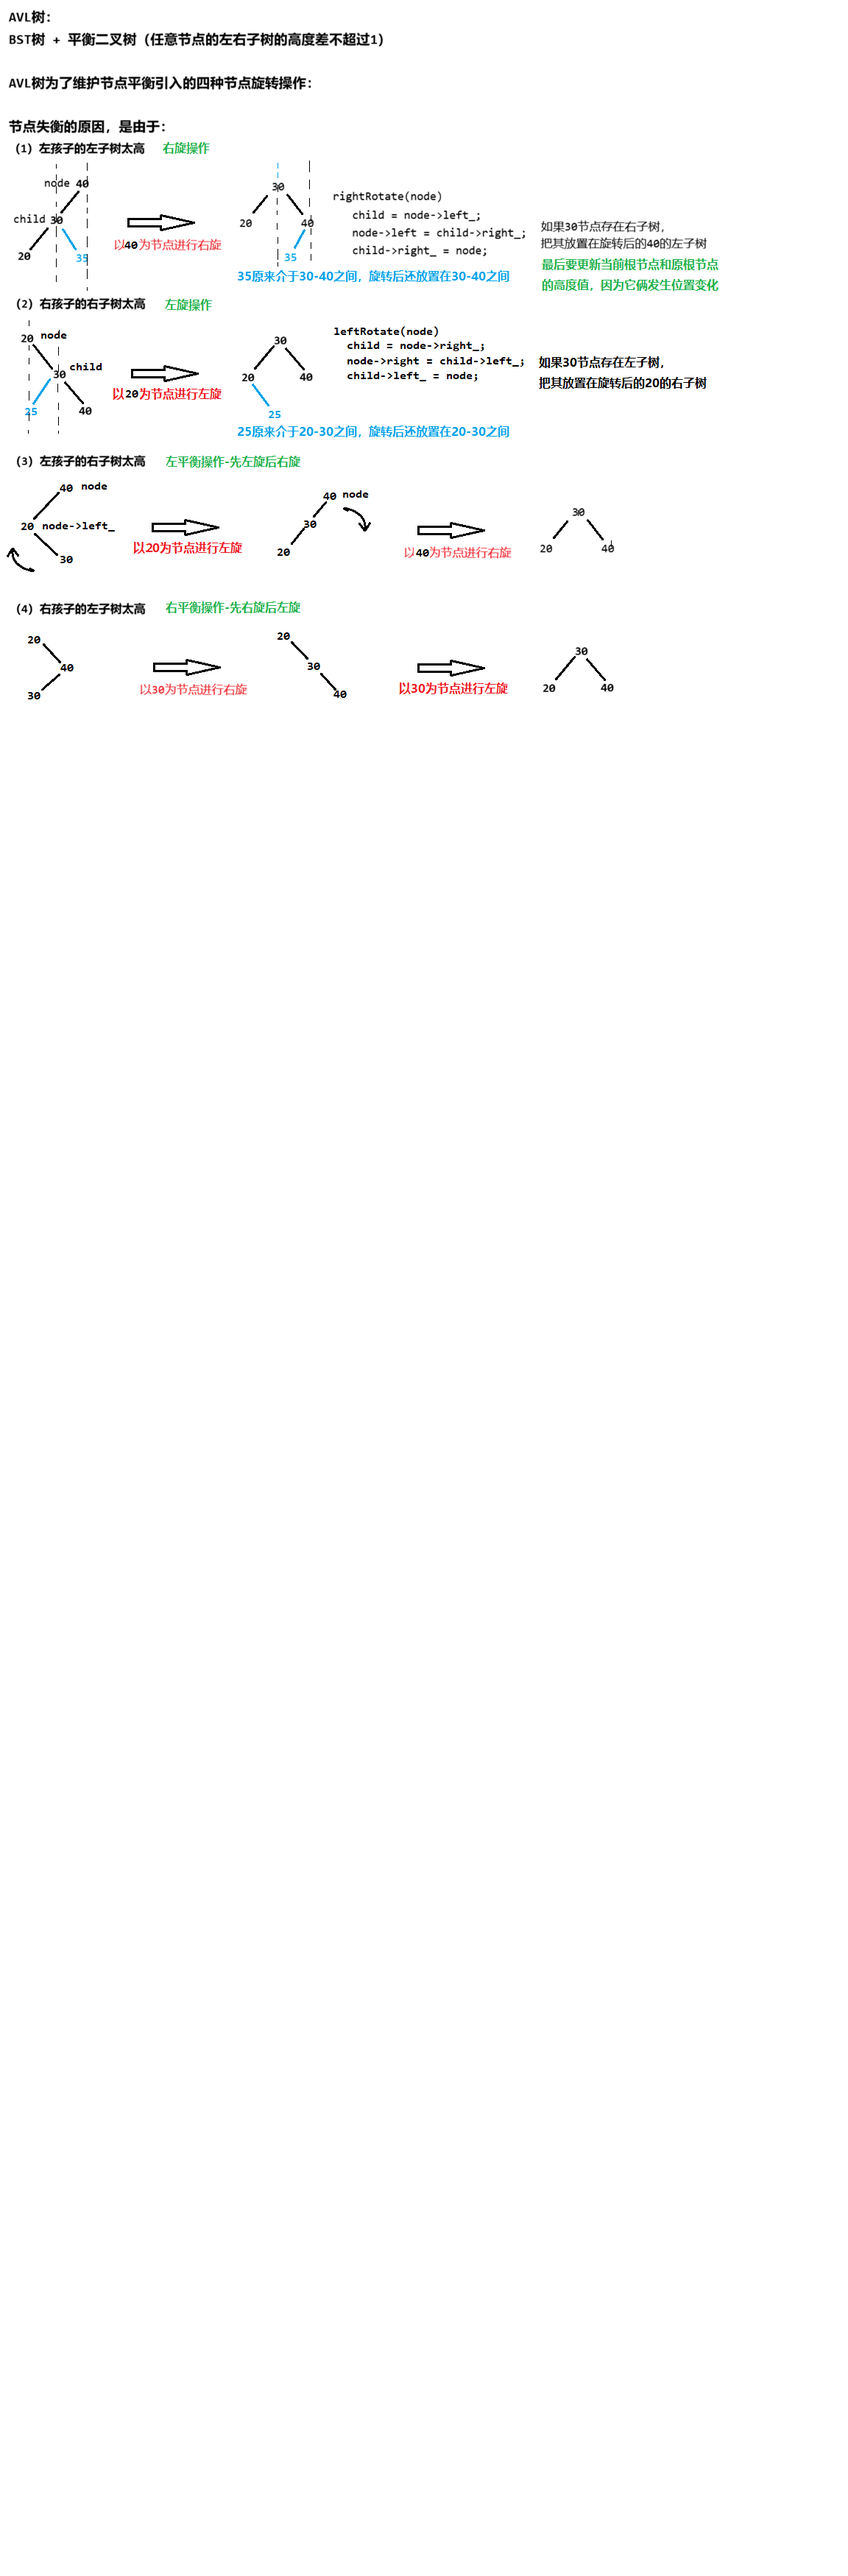
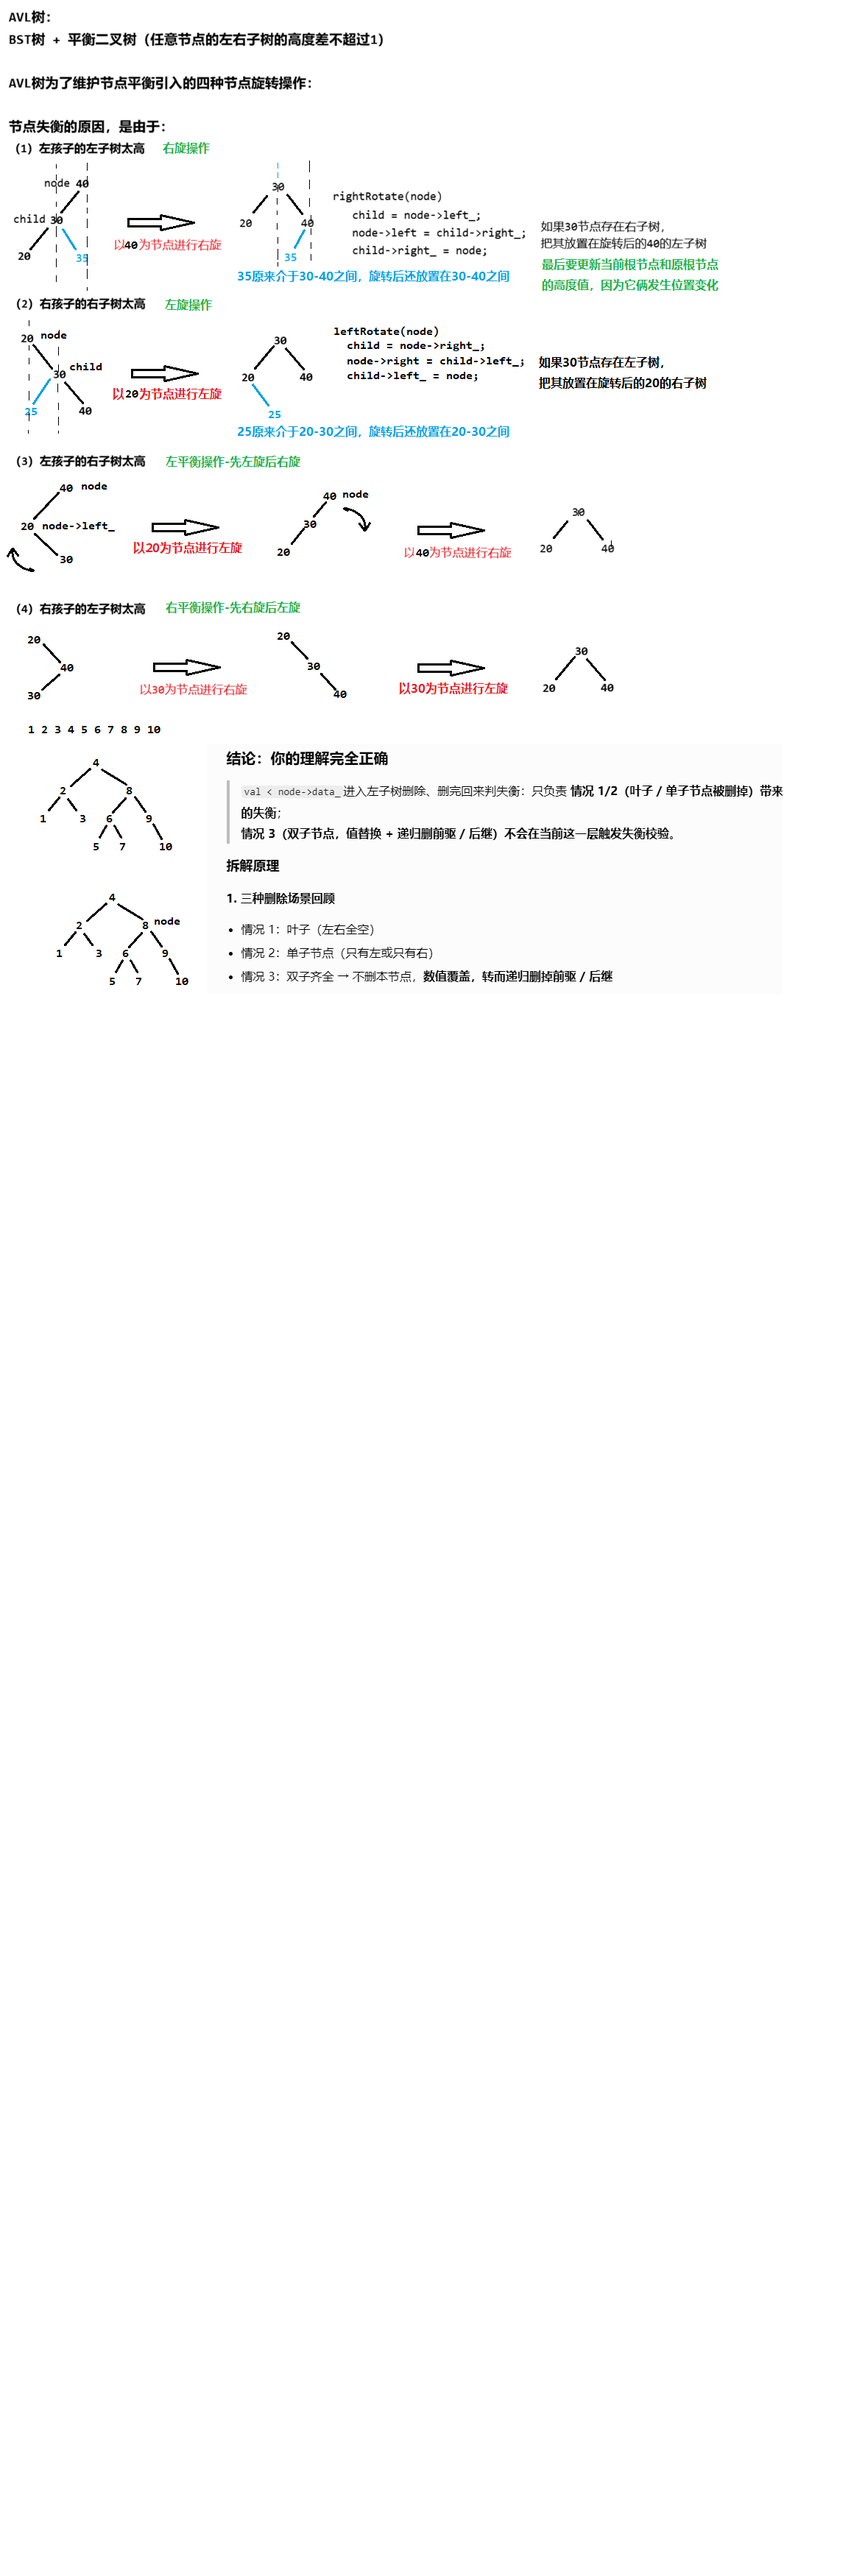
1

diff --git a/28 AVL树/AVL树/AVL树.cpp b/28 AVL树/AVL树/AVL树.cpp
@@ -1,30 +1,32 @@
 #include <iostream>
+#include <algorithm>
 #include <cmath>
 
 using namespace std;
 
 //AVL树
-template<typename T, typename Comp = less<T>>
+template<typename T>
 class AVLTree
 {
 private:
     struct Node
     {
         Node(T data = T()) 
-            : data_(data) , 
-            : left_(nullptr), 
-            : right_(nullptr)
+            : data_(data)
+            , left_(nullptr) 
+            , right_(nullptr)
+            , height_(1)
         {
         }
         T data_;
-        Node left_;
-        Node right_;
+        Node* left_;
+        Node* right_;
         int height_; //当前节点的高度
     };
     //根节点
     Node* root_;
 private:
-    //计算高度函数
+    //计算当前节点高度函数
     int height(Node* node)
     {
         if(node == nullptr)
@@ -40,11 +42,11 @@ private:
     {
         //孩子节点指向node节点的左孩子
         Node* child = node->left_;
-        node->left = child->node;
+        node->left_ = child->right_;
         child->right_ = node;
         //高度更新 ： 左右子树高的那颗树的高度 + 1 (当前节点高度)
         node->height_ = max(height(node->left_), height(node->right_)) + 1;
-        child->height = max(height(child->left_), height(child->right_)) + 1;
+        child->height_ = max(height(child->left_), height(child->right_)) + 1;
         //返回旋转之后的根节点
         return child;
     }
@@ -57,7 +59,7 @@ private:
         child->left_ = node;
         //高度更新 ： 左右子树高的那颗树的高度 + 1 (当前节点高度)
         node->height_ = max(height(node->left_), height(node->right_)) + 1;
-        child->height = max(height(child->left_), height(child->right_)) + 1;
+        child->height_ = max(height(child->left_), height(child->right_)) + 1;
         //返回旋转之后的根节点
         return child;
     }
@@ -91,7 +93,11 @@ public:
     {
         root_ = insert(root_, val);
     }    
-    //删除-递归
+    //删除-递归-用户接口
+    void remove(T val)
+    {
+        root_ = remove(root_, val);
+    }
     //查找-递归
 private:
     //插入-递归
@@ -108,15 +114,18 @@ private:
             node->left_ = insert(node->left_, val);
             /* ------此行之下是[递归回溯]过程执行------*/
             //与BST树比 添加1:node的左子树太高，导致node失衡
-            //判断是 左孩子的左子树太高 还是 左孩子的右子树太高
-            if(height(node->left_->left_) >= height(node->left_->right_))
+            if (height(node->left_) - height(node->right_) > 1)
             {
-                //接收新的根节点
-                node = rightRotate(node);
-            }
-            else
-            {
-                node = leftBalance(node);
+                //判断是 左孩子的左子树太高 还是 左孩子的右子树太高
+                if (height(node->left_->left_) >= height(node->left_->right_))
+                {
+                    //接收新的根节点
+                    node = rightRotate(node);
+                }
+                else
+                {
+                    node = leftBalance(node);
+                }
             }
         }
         //R
@@ -125,15 +134,18 @@ private:
             node->right_ = insert(node->right_, val);
             /* ------此行之下是[递归回溯]过程执行------*/
             //添加2:node的右子树太高，导致node失衡
-            //判断是 右孩子的右子树太高 还是 右孩子的左子树太高
-            if(height(node->right_->right_) >= height(node->right_->left_))
+            if (height(node->right_) - height(node->left_) > 1)
             {
-                //接收新的根节点
-                node = leftRotate(node);
-            }
-            else
-            {
-                node = rightBalance(node);
+                //判断是 右孩子的右子树太高 还是 右孩子的左子树太高
+                if (height(node->right_->right_) >= height(node->right_->left_))
+                {
+                    //接收新的根节点
+                    node = leftRotate(node);
+                }
+                else
+                {
+                    node = rightBalance(node);
+                }
             }
         }
         //相等
@@ -142,8 +154,105 @@ private:
             return node;
         }
         //添加3：更新AVL树高度
-        node->height_ = max(height(node->left, node->right)) + 1;
+        node->height_ = max(height(node->left_), height(node->right_)) + 1;
         //插入完成后，当前子树的根节点root_
+        return node;
+    }
+    //删除-递归
+    Node* remove(Node* node, const T val)
+    {
+        //待删除节点空，直接返回
+        if (node == nullptr)
+        {
+            return nullptr;
+        }
+        //L-待删除节点小于当前节点
+        if (val < node->data_)
+        {
+            node->left_ = remove(node->left_, val);
+            //左子树删除节点，可能造成右子树太高
+            if (height(node->right_) - height(node->left_) > 1)
+            {
+                //判断是 右孩子的右子树太高 还是 右孩子的左子树太高
+                if (height(node->right_->right_) >= height(node->right_->left_))
+                {
+                    //接收新的根节点
+                    node = leftRotate(node);
+                }
+                else
+                {
+                    node = rightBalance(node);
+                }
+            }
+        }
+        //R-待删除节点大于当前节点
+        else if(val > node->data_)
+        {
+            node->right_ = remove(node->right_, val);
+            //右子树删除节点，可能造成左子树太高
+            if (height(node->left_) - height(node->right_) > 1)
+            {
+                //判断是 左孩子的左子树太高 还是 左孩子的右子树太高
+                if (height(node->left_->left_) >= height(node->left_->right_))
+                {
+                    //接收新的根节点
+                    node = rightRotate(node);
+                }
+                else
+                {
+                    node = leftBalance(node);
+                }
+            }
+        }
+        //V-找到待删除节点
+        else 
+        {
+            //情况3：删除的是叶子节点
+            if (node->left_ != nullptr && node->right_ != nullptr)
+            {
+                //为了避免节点失衡，选择子树高的进行删除
+                if (height(node->left_) >= height(node->right_))
+                {
+                    //删除前驱节点：左子树中最大的
+                    Node* max = node->left_;
+                    //max != nullptr指向空节点才停下，max->right_ != nullptr指向叶子节点停下
+                    while (max->right_ != nullptr)
+                    {
+                        max = max->right_;
+                    }
+                    node->data_ = max->data_;
+                    //递归删除前驱节点
+                    node->left_ = remove(node->left_, max->data_);
+                    return node;
+                }
+                else 
+                {
+                    //删除后继节点：右子树中最小的
+                    Node* min = node->right_;
+                    while (min->left_ != nullptr)
+                    {
+                        min = min->left_;
+                    }
+                    node->data_ = min->data_;
+                    node->right_ = remove(node->right_, min->data_);
+                    return node;
+                }
+            }
+            //情况1/2：左右子树都为空/左或右子树为空
+            if (node->left_ == nullptr)
+            {
+                Node* left = node->left_;
+                delete node;
+                return left;
+            }
+            if (node->right_ == nullptr)
+            {
+                Node* right = node->right_;
+                delete node;
+                return right;
+            }
+        }
+        node->height_ = max(height(node->left_), height(node->right_)) + 1;
         return node;
     }
 };
@@ -155,5 +264,6 @@ int main()
     {
         avl.insert(i);
     }
+    avl.remove(1);
     return 0;
 }
